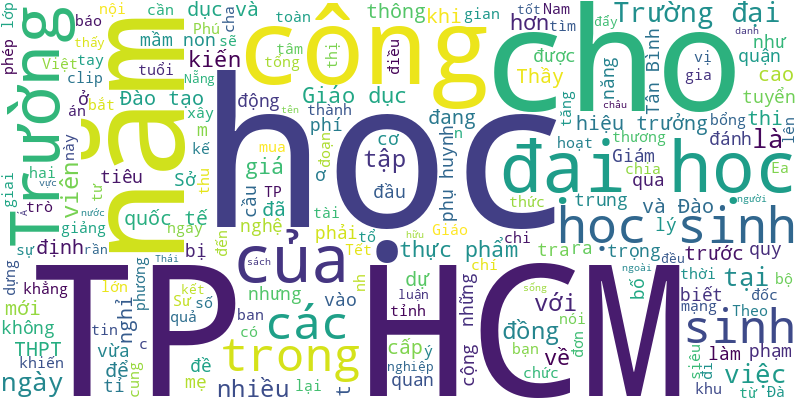
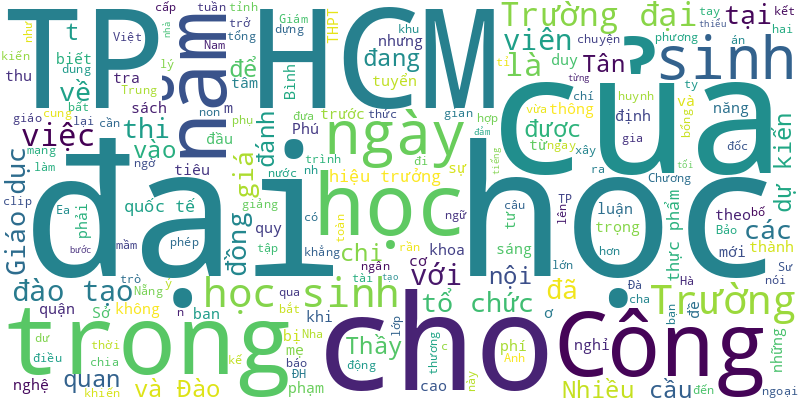
🍀 = 10%

diff --git a/README.md b/README.md
@@ -1,6 +1,11 @@
 # Tuoi Tre RSS 
 
 ## Giáo dục 
+- Bảo đảm ngân sách nhà nước chi cho giáo dục, đào tạo tối thiểu 20% tổng chi ngân sách, từng bước đưa tiếng Anh trở thành ngôn ngữ thứ hai và đào tạo ngoại ngữ khác theo nhu cầu.
+- Ban tổ chức ngày hội STEM quận Tân Phú, TP.HCM đã bất ngờ với những sản phẩm sáng tạo từ AI của học sinh trong nội dung 'sáng tác truyện tranh bằng AI'.
+- Chương trình đào tạo về 'Cấy ghép Implant Nha khoa All-on-X & GBR' do Công ty Dentium kết hợp cùng Đại học (ĐH) Harvard và ĐH Duy Tân đã được tổ chức từ ngày 19 - 20-10.
+- Vấn nạn 'tiến sĩ dỏm' là câu chuyện nhức nhối, đang thu hút sự quan tâm mạnh mẽ của dư luận.
+- Trong năm 2025, kỳ thi đánh giá tư duy của Đại học Bách khoa Hà Nội (TSA) dự kiến tổ chức trong 3 đợt thi vào các ngày cuối tuần.
 - Nhiều người có tên trong danh sách giảng viên cơ hữu toàn thời gian của các trường đại học tại Việt Nam nhưng đang sinh sống và làm việc ở nước ngoài nhiều năm qua.
 - Giám đốc dự án khu vực châu Á - Thái Bình Dương - Trung Đông Google for Education khẳng định như vậy tại buổi làm việc với Phó chủ tịch UBND TP.HCM.
 - HĐND tỉnh Bắc Ninh dự kiến kinh phí hơn 215 tỉ đồng để hỗ trợ hợp đồng lao động giáo viên, nhân viên nấu ăn… năm học 2024 - 2025.
@@ -26,43 +31,38 @@
 - Trường THPT Tô Hiến Thành phải tổ chức xin lỗi phụ huynh học sinh về những sai phạm trong việc tuyển sinh 174 học sinh lớp 10 khi chưa được sự cho phép của Sở Giáo dục và Đào tạo Hà Nội.
 - Mẹ của cháu bé tự kỷ bị bảo mẫu trung tâm Cầu Vồng (TP Đà Nẵng) bạo hành không đồng tình với kết luận điều tra của Công an quận Sơn Trà.
 - Đề thi môn văn vốn thường bị dư luận than phiền là lối mòn, cũ kỹ, rập khuôn. Việc ra đề thi bắt trend là hướng đi mới, nhưng cần cẩn trọng.
-- Bộ Giáo dục và Đào tạo vừa công bố thông tin về các kỳ thi tốt nghiệp THPT giai đoạn 2020 -2024 cho thấy tỉ lệ tốt nghiệp liên tục tăng trong nhiều năm qua với con số gần tuyệt đối.
-- Kết quả giám sát của phụ huynh tại Trường mầm non 14 (quận Tân Bình, TP.HCM) cho thấy tất cả các loại thực phẩm nhà trường mua đều cao hơn giá siêu thị 3-4 lần.
-- Ne'Kiya Jackson và Calcea Johnson, đều 17 tuổi, hai học sinh trung học từ New Orleans (Mỹ), đã làm nên 'lịch sử' khi tìm ra những bằng chứng mới cho định lý Pitago tồn tại hơn 2.000 năm.
-- TP.HCM đang đẩy mạnh các hoạt động thúc đẩy học tập ở nhiều cấp độ như công dân học tập, đơn vị học tập, cộng đồng học tập…
-- Học sinh các cấp ở TP.HCM sẽ nghỉ Tết Nguyên đán 2025 tổng cộng là 9 ngày, ít hơn năm trước 7 ngày.
 ![Edu](Edu.png)
 ## Thời Sự 
-- Chủ tịch Quốc hội Trần Thanh Mẫn ký ban hành nghị quyết của Ủy ban Thường vụ Quốc hội về sáp nhập huyện, xã giai đoạn 2023 - 2025 của 21 tỉnh thành.
-- Một tàu trật bánh khỏi đường ray, hàng trăm hành khách trên tàu SE7, SE8 được trung chuyển từ ga Lăng Cô (Thừa Thiên Huế) vào ga Đà Nẵng và ngược lại.
-- Tin tức đáng chú ý: TP.HCM ban hành nhiều chính sách hỗ trợ trong trường hợp bị thu hồi đất; 7,1% người trưởng thành tại Việt Nam mắc đái tháo đường; TP Phan Rang - Tháp Chàm sáp nhập 5 phường xã...
-- Hôm nay 2-11, thời tiết các tỉnh Bắc Bộ lạnh, Nam Bộ mưa rào, Trung Bộ có mưa và chuẩn bị vào đợt mưa to dài ngày.
-- Xe tải cẩu chạy trên cao tốc Phan Thiết - Dầu Giây bất ngờ nổ lốp, lật ngửa, chắn ngang đường. Vụ việc khiến giao thông trên đường cao tốc kẹt xe kéo dài nhiều km.
-- Việc này giúp khai thác và phát triển tốt các quỹ đất có điều kiện chỉnh trang, tạo thành các khu đô thị nén xung quanh nhà ga tuyến metro số 1, 2, dọc vành đai 3… ở TP.HCM.
-- Ông Nguyễn Viết Hải, chủ tịch Tập đoàn Sơn Hải, hỏi như trên. Nhiều bạn đọc thì thắc mắc về quy định có cho phép ghi chữ trên biển báo giao thông không, trong khi Tập đoàn Sơn Hải khẳng định đây là biển thông báo của doanh nghiệp.
-- Bí thư Quận ủy quận Bình Tân (TP.HCM) chỉ đạo cơ quan chức năng quận cân nhắc tiến độ cưỡng chế tháo dỡ diện tích vi phạm tại chung cư Nguyễn Quyền phù hợp, bảo vệ quyền lợi cho các hộ dân.
-- Chủ tịch Quốc hội Trần Thanh Mẫn vừa ký ban hành nghị quyết về việc tăng thêm một thứ trưởng Bộ Nông nghiệp và Phát triển nông thôn.
-- Lực lượng chức năng đã cưỡng chế tháo dỡ tấm biển quảng cáo chữa bách bệnh bằng nước ion kiềm của ông Nguyễn Tiến Nam (sinh năm 1958, trú tại số nhà 47, đường Đìa 1, thôn Đìa, xã Bình Minh, Thanh Oai, Hà Nội) trong ngày 1-11.
-- Di tích Quốc Tử Giám triều Nguyễn sau nhiều năm là trụ sở của Bảo tàng Lịch sử Thừa Thiên Huế sắp được bàn giao, trả lại nguyên trạng cho Trung tâm Bảo tồn di tích cố đô Huế quản lý, tu bổ và phát huy giá trị.
-- Từ ngày 3 đến 5-11, miền Trung, đặc biệt khu vực từ Hà Tĩnh đến Đà Nẵng có mưa to đến rất to với lượng mưa phổ biến 200-400mm, có nơi trên 500mm.
-- Giám đốc Đại học Huế đã đưa ra khẳng định như trên. Việc thu học phí rẻ khiến câu chuyện tái đầu tư cho cơ sở hạ tầng để đạt tiêu chí đại học quốc gia gặp khó khăn.
-- Sau đợt mưa lũ, sò huyết dạt vào bờ biển khiến hàng trăm người dân thị xã Ba Đồn (Quảng Bình) đổ ra bãi biển nhặt. Đây là hiện tượng lạ với vùng biển này.
-- UBND thành phố Quảng Ngãi đang tìm kiếm một thiết kế logo đáp ứng các tiêu chí nhận diện và có ý nghĩa với xứ sở. Thiết kế đoạt giải nhất nhận thưởng 100 triệu đồng và được sử dụng làm biểu trưng cho thành phố.
-- Ngày 1-11, thông tin từ Bệnh viện Trường đại học Y Dược Cần Thơ cho biết bệnh viện này vừa phẫu thuật thành công lấy ra chiếc đũa trong vùng ổ mắt và vách mũi một nam bệnh nhân.
-- Theo phản ánh của người dân, ven đường dọc rạch Cầu Suối (xã Vĩnh Lộc B, huyện Bình Chánh, TP.HCM) đang trở thành nơi đổ rác bừa bãi.
-- Thầy hiệu trưởng trong clip '1.400 học sinh chia tay trước ngày nghỉ hưu' nói muốn được yêu mến, thầy giáo trước tiên phải trải lòng với học trò. Thầy là cha mẹ, nhưng cũng là bạn để các em tâm sự những nỗi niềm tuổi mới lớn.
-- Một vết nứt dài vừa được phát hiện trên một ngọn núi ở phía tây huyện Lệ Thủy (tỉnh Quảng Bình) sau mưa lũ. Chính quyền đang khẩn cấp di dời các hộ dân bên dưới chân núi.
-- Sau 50 ngày được điều trị tại Bệnh viện Bạch Mai, bé M.H.T.N. (11 tuổi) từng bị lũ cuốn trôi ở bản Làng Nủ, Lào Cai ngày đã được ra viện.
-- Liên quan vụ 21 con hổ, báo chết ở Đồng Nai, các mẫu xét nghiệm lấy tại khu du lịch Vườn Xoài liên tiếp âm tính với cúm gia cầm A/H5N1.
-- Đà Nẵng sẽ nghiên cứu kết hợp với thương mại dịch vụ tại các điểm nhà vệ sinh công cộng trên các tuyến đường du lịch.
-- Phường An Phú, An Cư và An Nghiệp được sáp nhập vào phường Thới Bình, quận Ninh Kiều để thành lập phường mới từ hôm nay.
-- Chuyển từ quốc lộ sang đường đô thị là một tất yếu mang tính quy luật do quá trình đô thị hóa và sự thay đổi mạnh mẽ của ngành giao thông.
-- Ông Nguyễn Thanh Lâm, thứ trưởng Bộ Thông tin và Truyền thông, được Thủ tướng Chính phủ bổ nhiệm giữ chức tổng giám đốc VTV.
-- Cơ quan cảnh sát điều tra Bộ Công an vừa kết luận điều tra vụ án xảy ra ở dự án Khu đô thị du lịch biển Phan Thiết, tỉnh Bình Thuận.
-- Chính phủ trình Quốc hội chủ trương đầu tư Chương trình mục tiêu quốc gia phát triển văn hóa 2025-2035 với tổng nguồn 256.250 tỉ đồng.
-- Ngày 1-11, một lãnh đạo Công an TP Pleiku cho biết hiện cơ quan điều tra đang thụ lý vụ nữ sinh bị đánh tập thể rồi lột đồ quay clip.
-- Nguyễn Văn Tiền (ở xã Dương Tơ, Phú Quốc) cùng hai người khác đã chuyển nhượng khoảng 3ha đất lấy 4 tỉ đồng.
-- Để cấm xe máy cá nhân, Hà Nội cần đánh giá tác động xã hội, bởi cấm xe cá nhân thì phải có xe thay thế, phương tiện công cộng phải tiện lợi.
+- Temu có nguy cơ bị chịu mức phạt lên tới 6% doanh thu toàn cầu hằng năm của nền tảng này sau khi Liên minh châu Âu (EU) mở cuộc điều tra.
+- Nhiều người có các khoản thu nhập vãng lai nhỏ nhận thông báo yêu cầu kê khai thuế bổ sung và truy thu, phạt, tính tiền chậm nộp số tiền khủng.
+- Xe tải và xe container xảy ra va chạm trên quốc lộ 22, huyện Củ Chi (TP.HCM), khiến hai vợ chồng kẹt cứng trong cabin, người dân hỗ trợ dùng dây cáp kéo giãn cabin, cứu người bị nạn.
+- Gia đình hiếm muộn được hoàn tiền nếu thụ tinh ống nghiệm không thành công; Người mua vàng gặp khó, "chợ mạng" sôi nổi.
+- Hôm nay 3-11, không khí lạnh ảnh hưởng nhiều nơi ở Bắc Bộ. Trung Bộ mưa to đến rất to, còn Nam Bộ thời tiết có lúc mưa rào.
+- Đoạn clip ghi cảnh tài xế xe buýt vừa lái xe vừa bấm điện thoại trên đường Lý Thường Kiệt khiến nhiều người bức xúc.
+- Chủ tịch Quốc hội Cuba Esteban Lazo Hernández trân trọng cảm ơn sự hỗ trợ, đồng thời cho biết Cuba rất quan tâm trao đổi và học hỏi các kinh nghiệm phong phú của Việt Nam.
+- Căn hộ ở tầng cao block A3 chung cư The Era Town Đức Khải, phường Phú Mỹ, quận 7, TP.HCM bốc cháy tối 2-11.
+- Cơn mưa cực lớn và kéo dài đúng lúc có triều cường nên nhiều tuyến đường ở thành phố Bạc Liêu (tỉnh Bạc Liêu) ngập nặng. Có nơi lượng mưa đo được hơn 221mm.
+- Do ảnh hưởng của không khí lạnh và gió đông nên từ sáng mai 3-11, ở miền Trung có mưa lớn trên diện rộng, nguy cơ cao xảy ra ngập lụt ở đô thị các tỉnh từ Hà Tĩnh đến Quảng Ngãi.
+- Lực lượng chức năng TP Cam Ranh (tỉnh Khánh Hòa) vẫn đang tiến hành thu thập thông tin để xác định danh tính 1 hài cốt liệt sĩ được tìm thấy ở nương rẫy trên địa bàn thành phố này.
+- Chủ tịch Quốc hội Cuba Esteban Lazo Hernandez đã bày tỏ điều này trong cuộc hội đàm với Chủ tịch Quốc hội Trần Thanh Mẫn tại Hà Nội ngày 2-11.
+- Đoạn đường sắt qua đèo Hải Vân đã chính thức thông đường sau sự cố tàu hàng bị trật bánh khi qua đèo ở Đà Nẵng.
+- Ngày 2-11, Ủy ban Kiểm tra Tỉnh ủy Đồng Nai đã phát đi thông báo về việc kiểm tra, giám sát và đề nghị kỷ luật một số tổ chức Đảng, đảng viên trên địa bàn.
+- Thành viên đoàn công tác Ủy ban Kinh tế của Quốc hội đồng tình kiến nghị đầu tư xây sớm đường băng thứ hai thuộc dự án sân bay Long Thành.
+- Một thi thể đang trong trạng thái phân hủy trong thùng container trên khu đất trống ở xã Phước Đồng, TP Nha Trang (Khánh Hòa) được người dân phát hiện.
+- Diễn đàn Trinity Forum 2024, sự kiện quốc tế hàng đầu trong lĩnh vực hàng không và bán lẻ du lịch, diễn ra tại TP.HCM từ ngày 5 đến 6-11, quy tụ hàng loạt thương hiệu lớn L'Oréal, Qatar Airways, Mondelēz, Diageo, Dubai Duty Free, China Duty Free...
+- Văn phòng đăng ký đất đai TP.HCM cho rằng đã đề nghị cấp sổ hồng cho gia đình ông Bùi Mộc từ tháng 5-2023, việc cấp sổ còn lại thuộc thẩm quyền của UBND quận Tân Bình.
+- Dự án di dời nghĩa trang Bình Hưng Hòa gần như hoàn tất công tác bốc mộ ở 2 giai đoạn đầu, bắt đầu giai đoạn 3.
+- Cuộc thi thiết kế cầu vượt biển vịnh Rạch Giá được quy định ngay từ đầu là cao không quá 45m. Thế nhưng có một đơn vị thiết kế cầu cao đến 78m.
+- Trong vụ án xảy ra ở dự án khu đô thị du lịch biển Phan Thiết, Cơ quan cảnh sát điều tra Bộ Công an đã kết luận 2 nội dung vi phạm chính.
+- Nội dung kiểm tra, xác minh, xử lý cần được gởi về Sở Thông tin và Truyền thông trước ngày 8-11 để báo cáo UBND tỉnh Khánh Hòa.
+- Sở Giao thông vận tải TP.HCM đề xuất tháo dỡ cầu sắt cũ Long Kiểng 50 tuổi, xuống cấp nghiêm trọng để đảm bảo an toàn, đỡ tốn phí quản lý.
+- Tàu cá Phú Yên bị đứt neo trôi dạt từ TP Tuy Hòa về phía bãi biển thị xã Đông Hòa, tỉnh Phú Yên. Công việc cứu hộ rất khó khăn do thời tiết bất lợi, sóng rất lớn.
+- PGS.TS Nguyễn Thị Kim Tiến cho biết Việt Nam đang đứng đầu các nước Đông Nam Á về ghép tạng với hơn 1.000 ca mỗi năm.
+- Trong 10 tháng đầu năm 2024, trên địa bàn TP.HCM đã xảy ra 1.235 vụ tai nạn giao thông làm 384 người chết và 765 người bị thương.
+- Chiều 2-11, tại Khánh Hòa diễn ra hội nghị công bố, trao quyết định của Bộ Chính trị điều động, chỉ định ông Nghiêm Xuân Thành - ủy viên Trung ương Đảng, bí thư Tỉnh ủy Hậu Giang - giữ chức bí thư Tỉnh ủy Khánh Hòa.
+- Khu quản lý đường bộ II cho rằng biển báo trên cao tốc Nghi Sơn - Diễn Châu là của Nhà nước, nên chỉ đạo xóa chữ không có trong thiết kế. Nhưng Tập đoàn Sơn Hải vẫn khẳng định đây là tài sản doanh nghiệp.
+- Kết luận điều tra xác định cựu bộ trưởng, chủ nhiệm Văn phòng Chính phủ Mai Tiến Dũng nhận 200 triệu “cảm ơn” từ đại gia Nguyễn Cao Trí. Cựu bí thư Lâm Đồng Trần Đức Quận nhận hối lộ 2,1 tỉ, cựu chủ tịch tỉnh nhận 4,2 tỉ.
+- Thái Lan là nơi điển hình về bảo tồn sếu bởi đã nuôi thả thành công, có thể nói "ban đầu người nuôi sếu, sau này sếu sẽ nuôi người" gắn với phát triển sinh kế, du lịch địa phương. Đó là ý kiến của đa số nhà tài trợ đề án bảo tồn sếu đầu đỏ.
 ![New](News.png)
 ## Nhịp sống số 
 - Whisper, công cụ AI chuyển lời nói thành văn bản của OpenAI - đã tạo ra các đoạn văn bản và những câu hoàn toàn không có thật.
